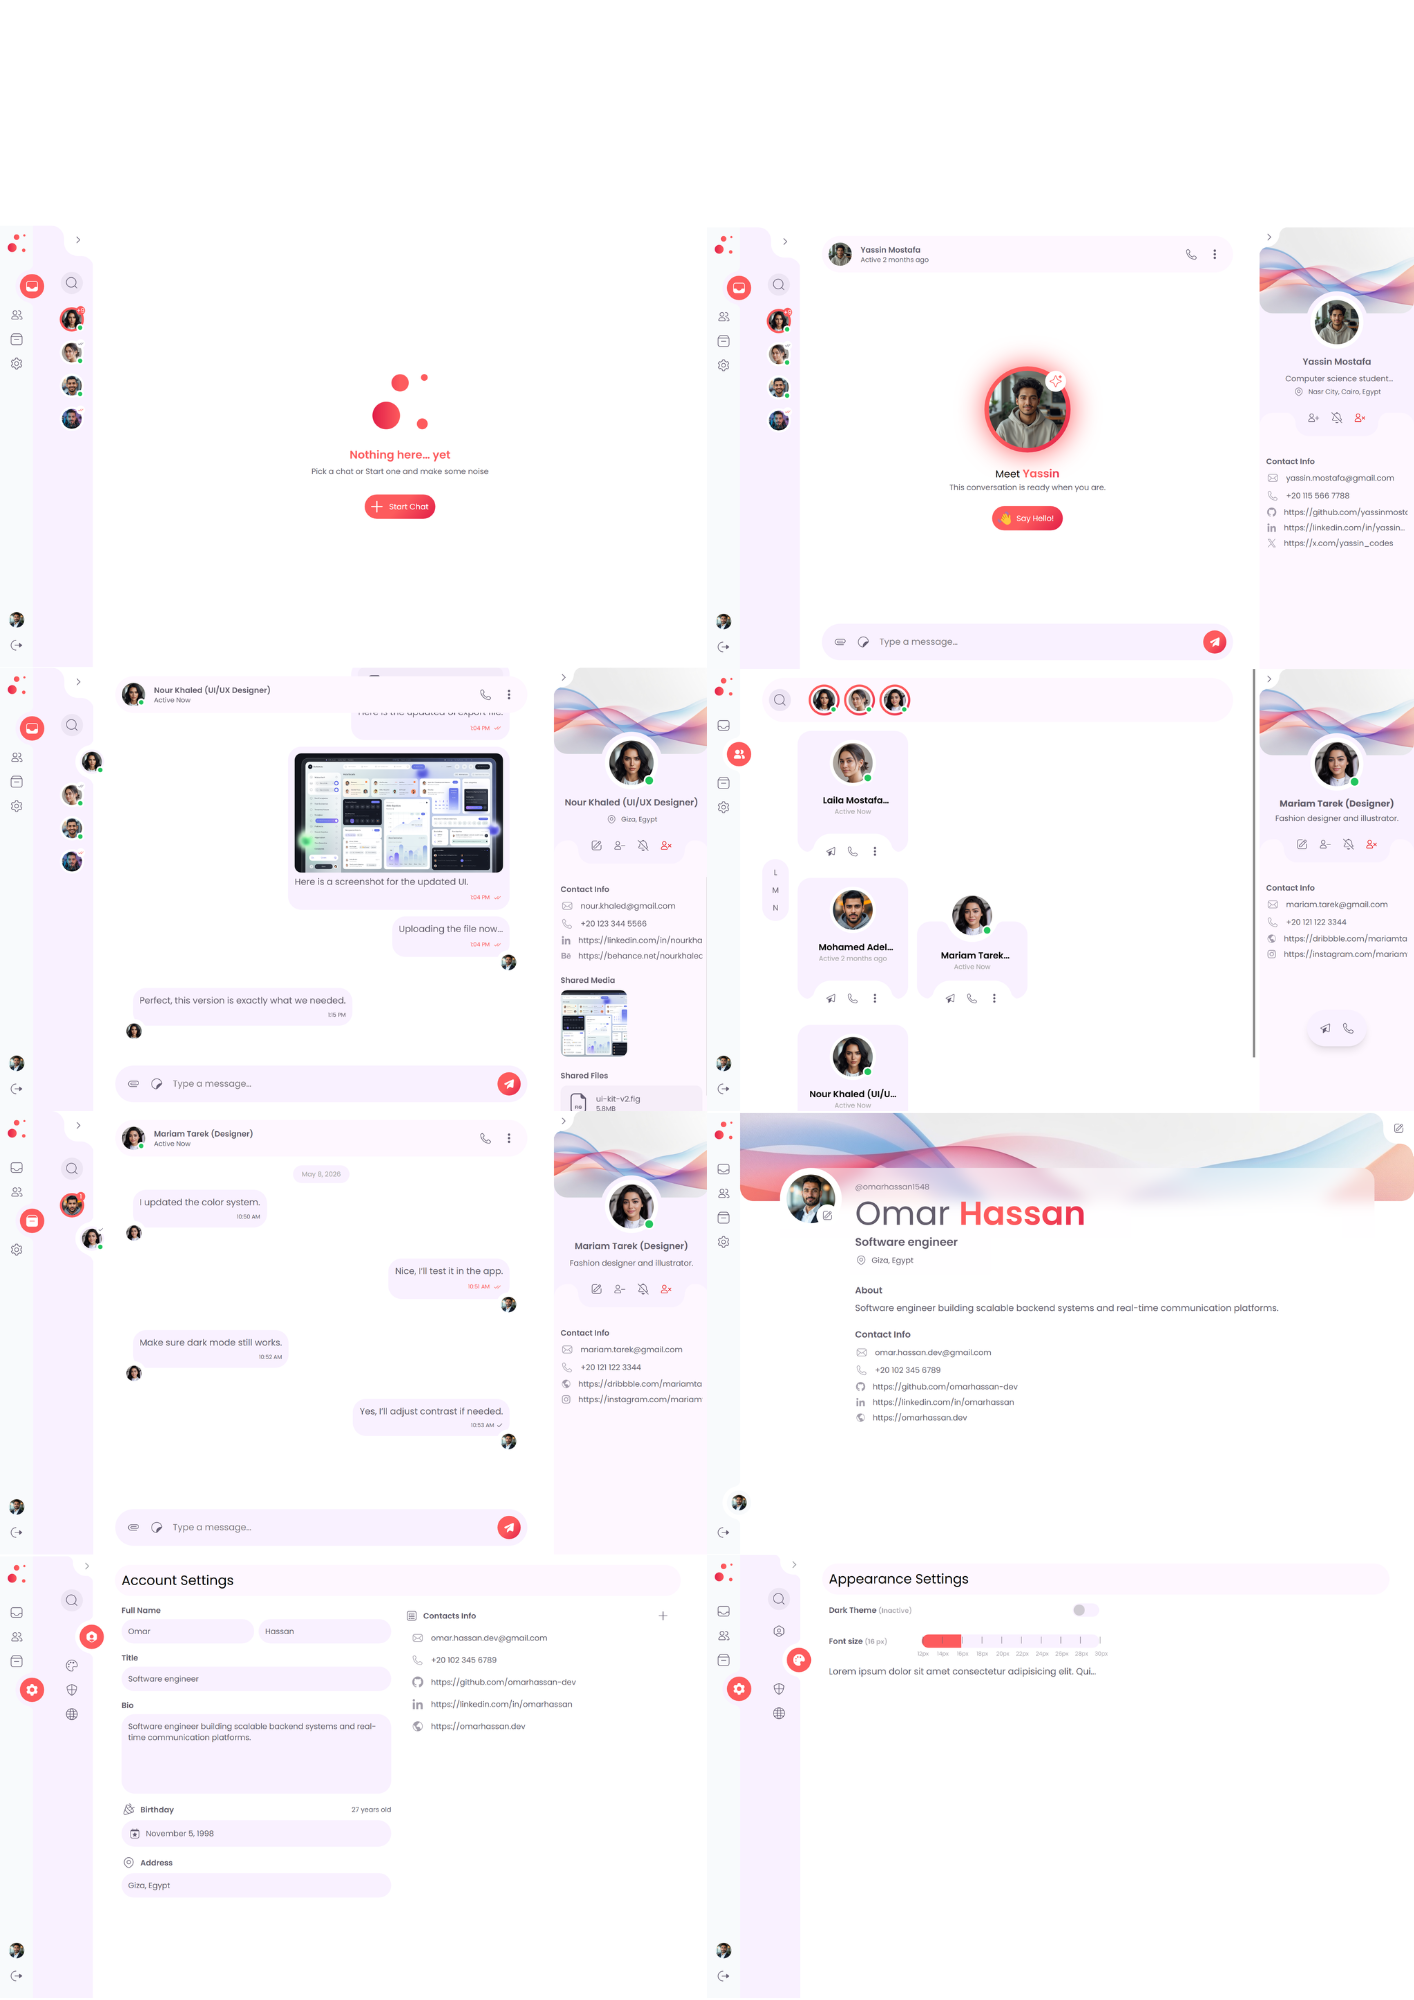
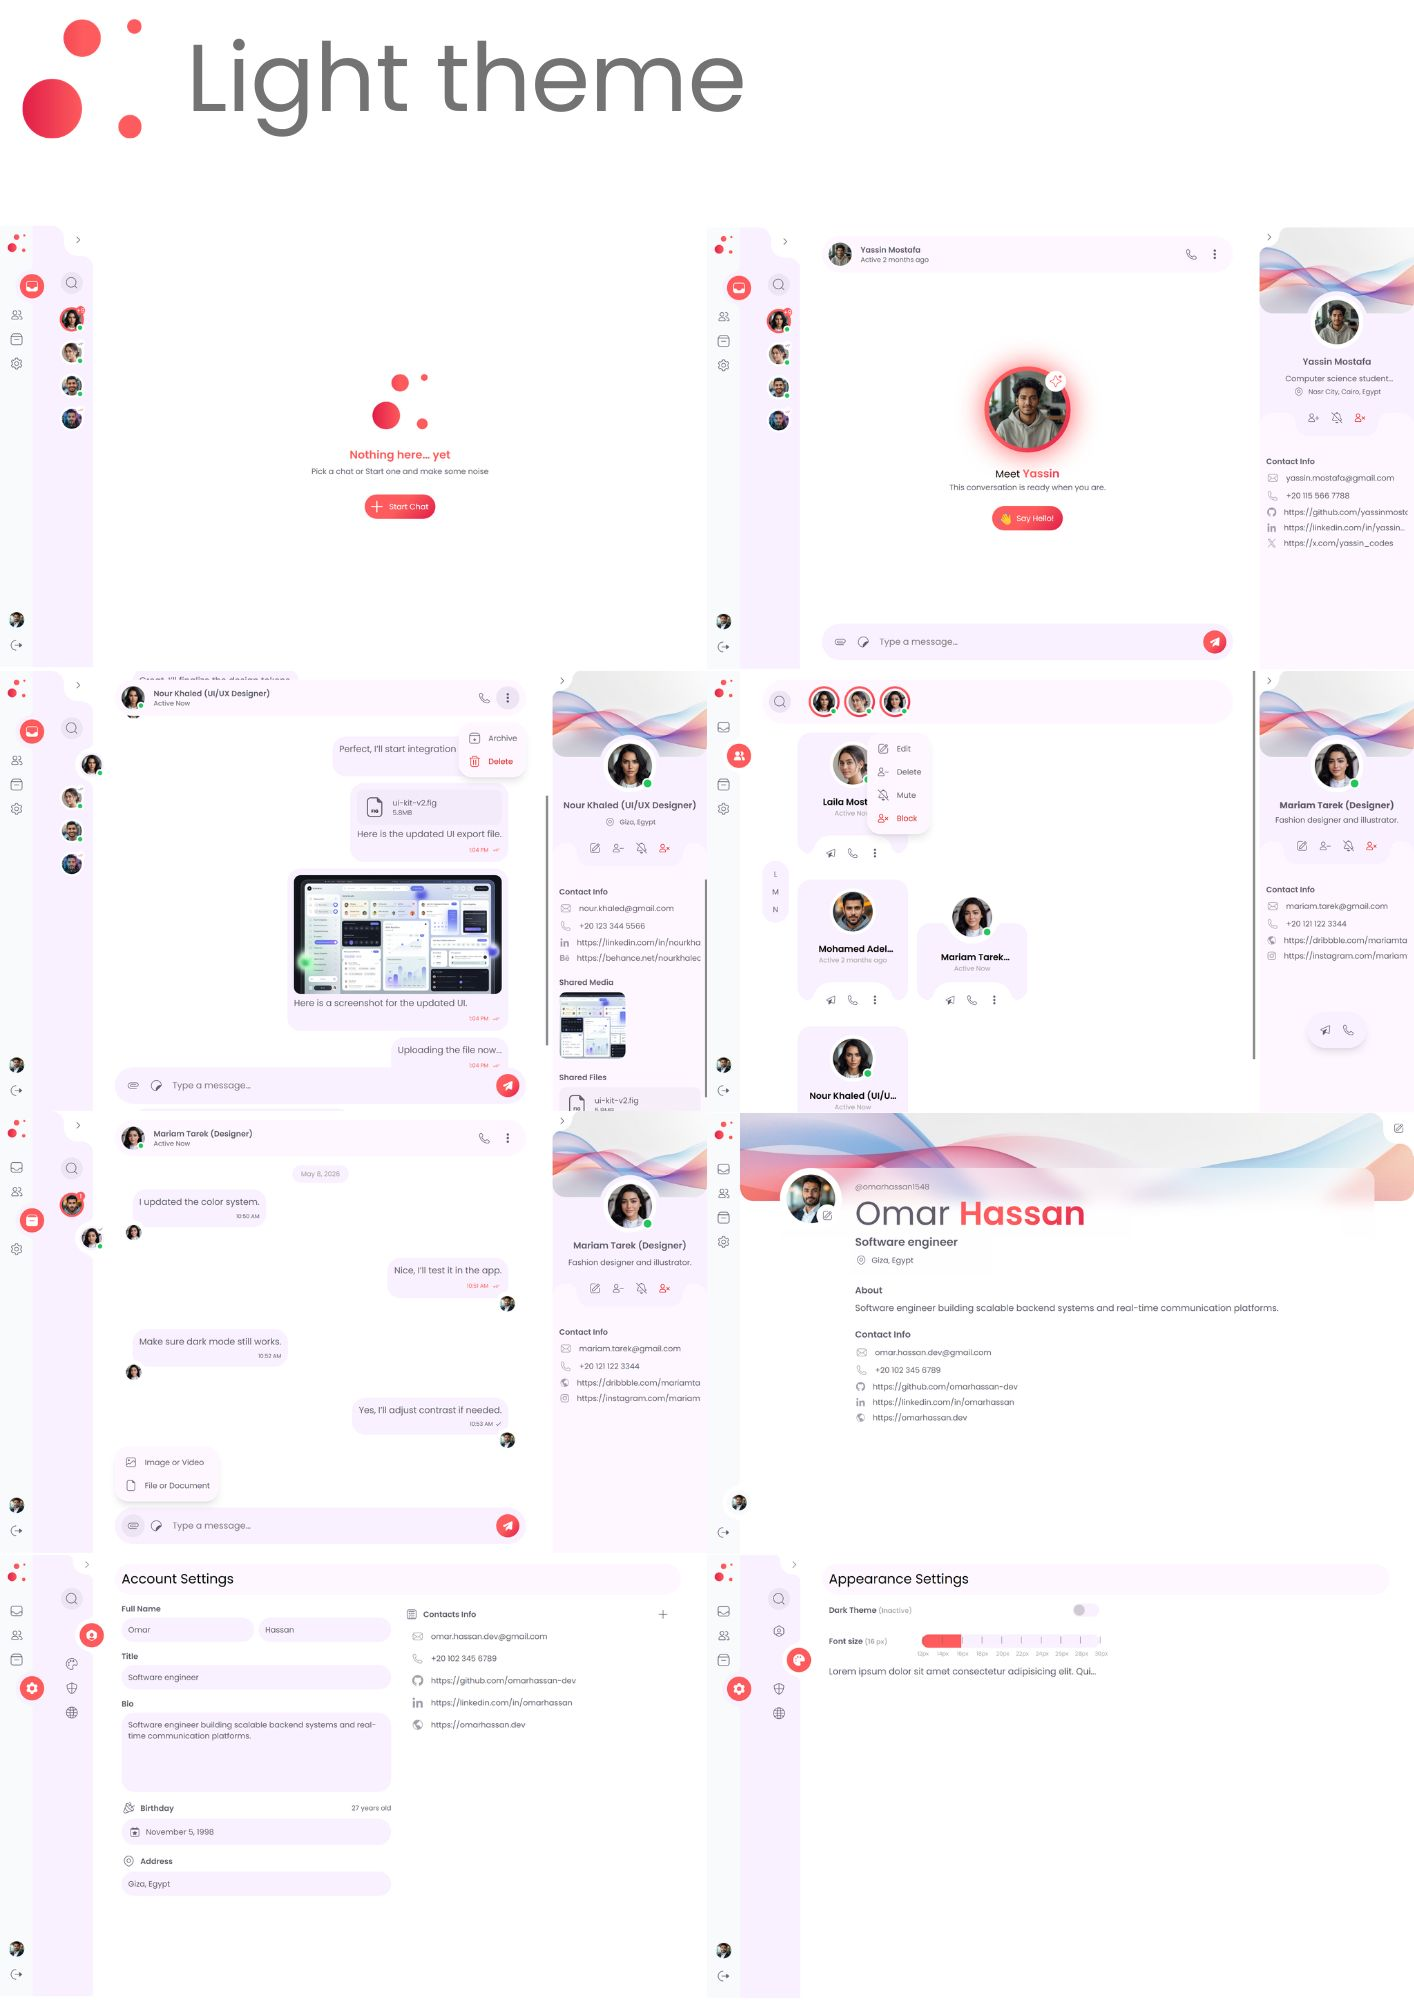
Update the SidebarIcon component import in both sidebar and settings page

diff --git a/client/src/pages/Settings.tsx b/client/src/pages/Settings.tsx
@@ -4,7 +4,7 @@ import { ArrowIcon } from "../components/ui/Icons";
 import Label from "../components/common/Label";
 import { SETTINGS_SIDEBAR_ITEMS } from "../config/navigation";
 import { capitalize, isRouteActive } from "../utils/helpers";
-import { SettingsSidebarIcon } from "../components/icons/Sidebar/SidebarIcon";
+import { SettingsSidebarIcon } from "../components/icons/sidebar/SidebarIcon";
 import CommonIcon from "../components/icons/common/CommonIcon";
 
 const SettingsSidebar = (): ReactNode => {

diff --git a/client/src/components/layout/Sidebar.tsx b/client/src/components/layout/Sidebar.tsx
@@ -5,7 +5,7 @@ import { SIDEBAR_ITEMS } from "../../config/navigation";
 import { capitalize, isRouteActive } from "../../utils/helpers";
 import { useAuth, useTheme } from "../../hooks";
 import Label from "../common/Label";
-import { MainSidebarIcon } from "../icons/Sidebar/SidebarIcon";
+import { MainSidebarIcon } from "../icons/sidebar/SidebarIcon";
 
 export default function Sidebar(): ReactNode {
   const pathname = useLocation().pathname,

diff --git a/README.md b/README.md
@@ -1,5 +1,33 @@
 # Netalk
 
+```bash
+Current Status: Frontend Development Phase
+
+✓ UI/UX Design Completed
+✓ Responsive Layouts
+✓ Component Interactions
+✓ Authentication Screens
+✓ User Profiles
+✓ Theme Switching (Light/Dark)
+✓ Mock Data Integration (JSON Files)
+
+⏳ Backend Development
+⏳ Database Integration
+⏳ GraphQL API
+⏳ Authentication Services
+⏳ Real-Time Messaging
+⏳ Server Deployment
+
+```
+
+## Description
+
+Netalk is a social networking and real-time communication platform currently under development. The project aims to provide users with a modern environment for connecting, sharing content, managing contacts, and engaging in real-time conversations.
+
+The current version focuses exclusively on the frontend application, featuring fully designed user interfaces, responsive layouts, interactive components, authentication screens, profile management pages, user search experiences, and support for both Light and Dark themes. To simulate real-world application behavior, all displayed data is currently sourced from local JSON files.
+
+At this stage, no backend server, database, or API integration has been implemented. All interactions are client-side demonstrations intended to showcase the application's planned user experience and design system. Development of the backend infrastructure, database integration, authentication services, GraphQL APIs, and real-time messaging capabilities is currently in progress.
+
 ![alt text](./screenshots/image_01.png)
 ![alt text](./screenshots/image_02.png)
 ![alt text](./screenshots/image_03.png)
